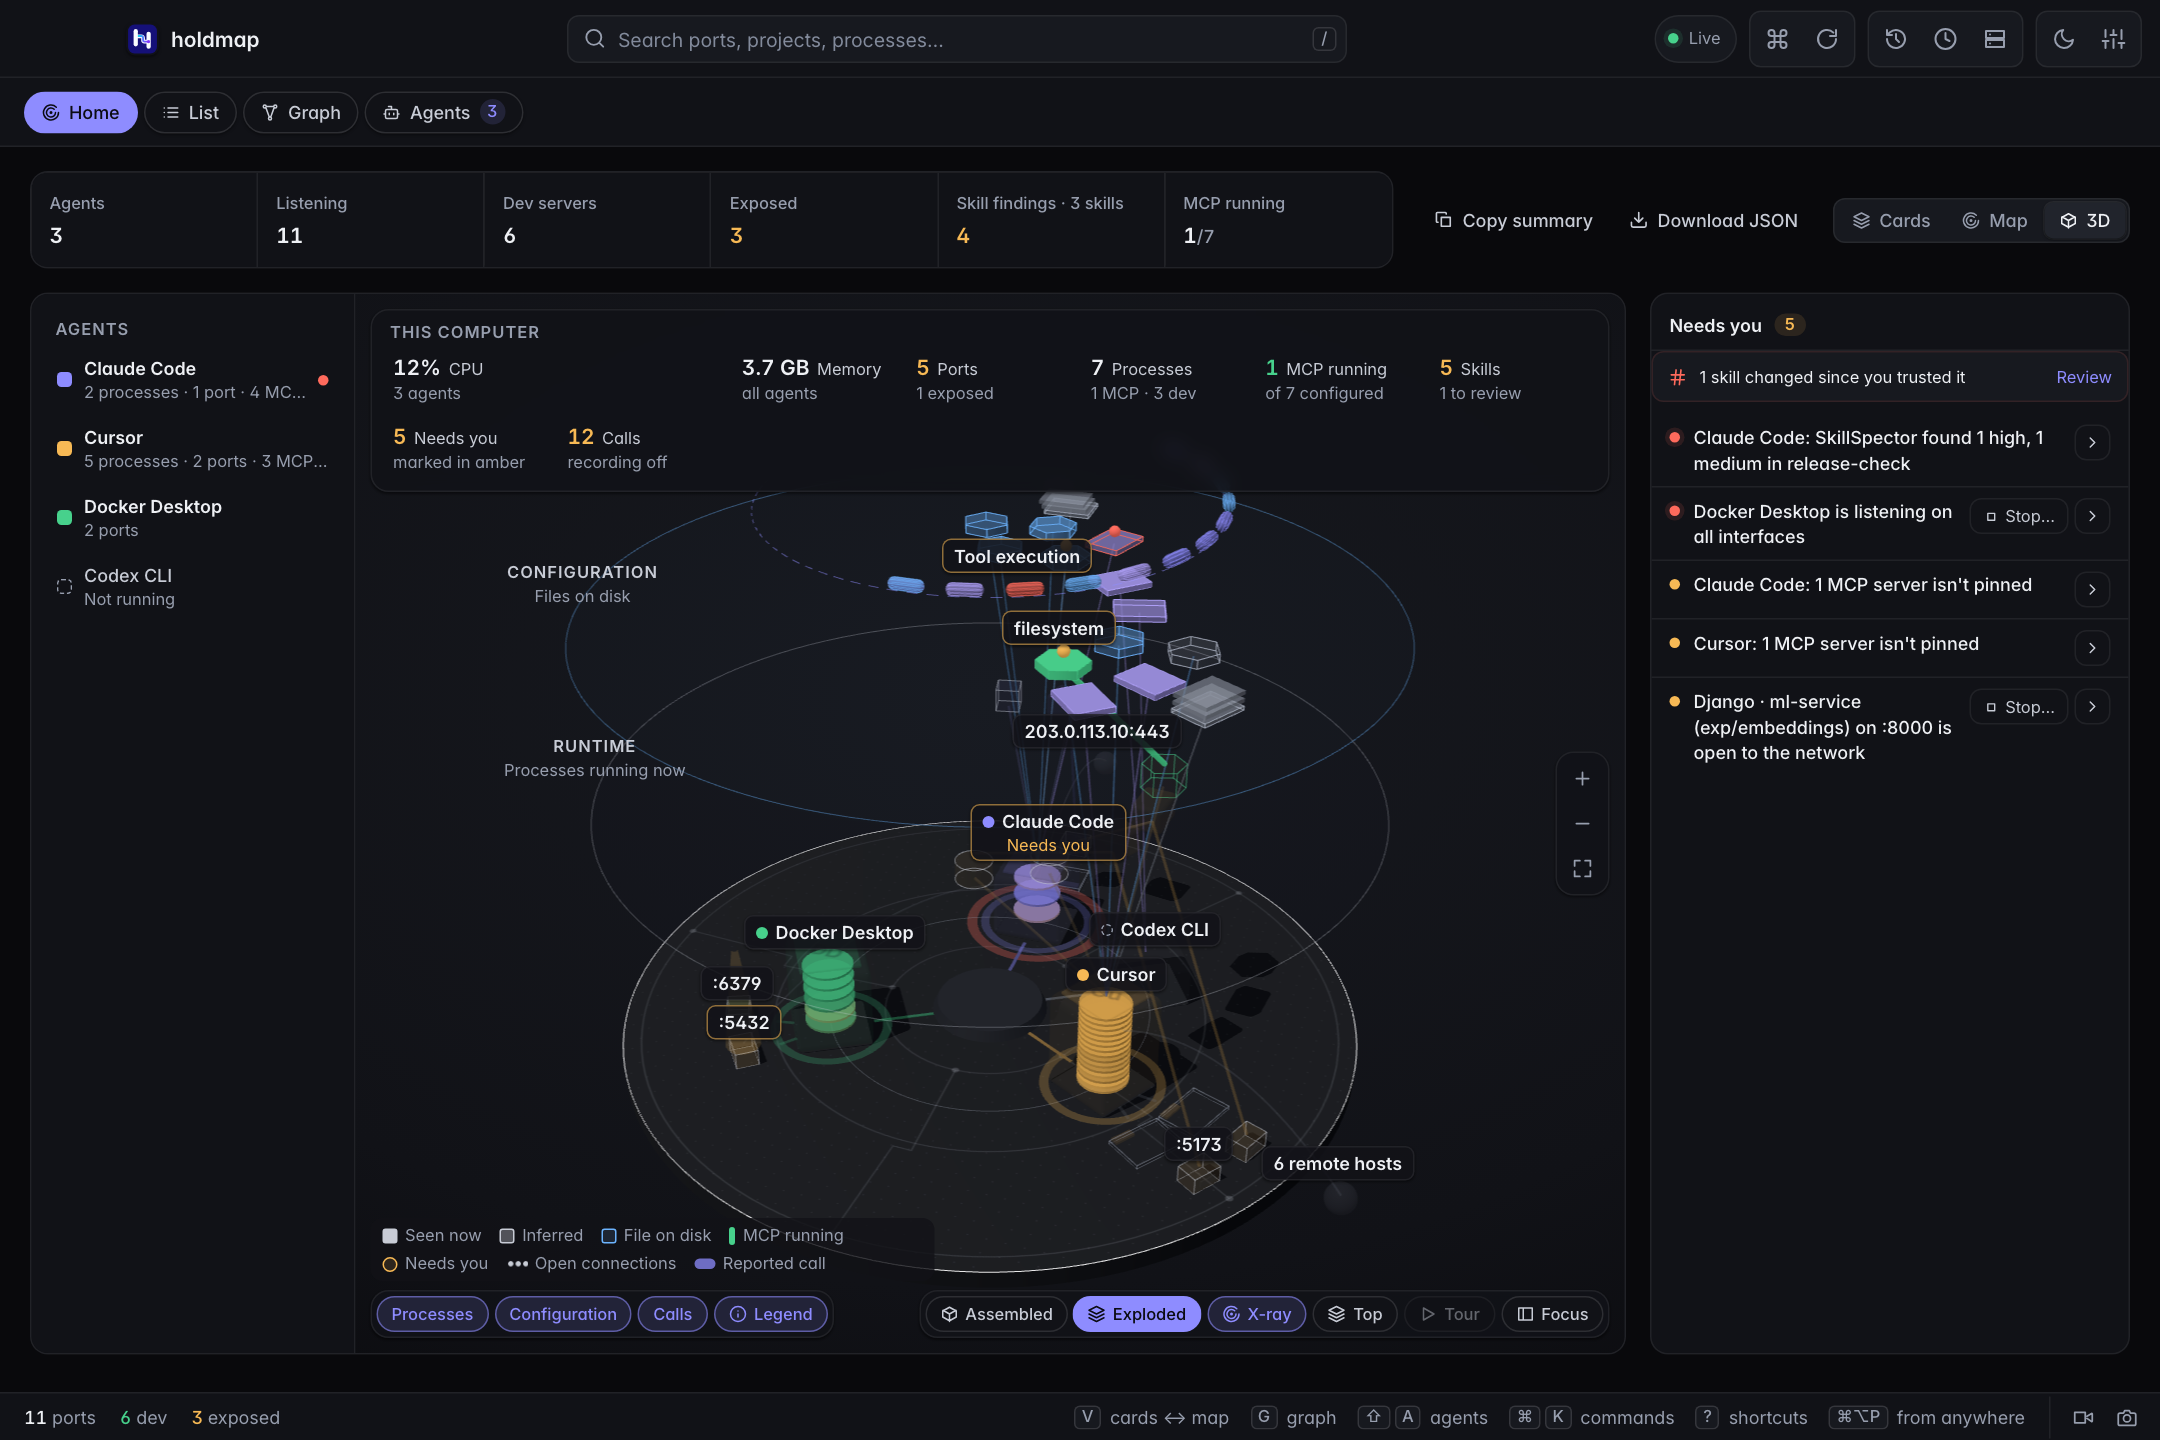
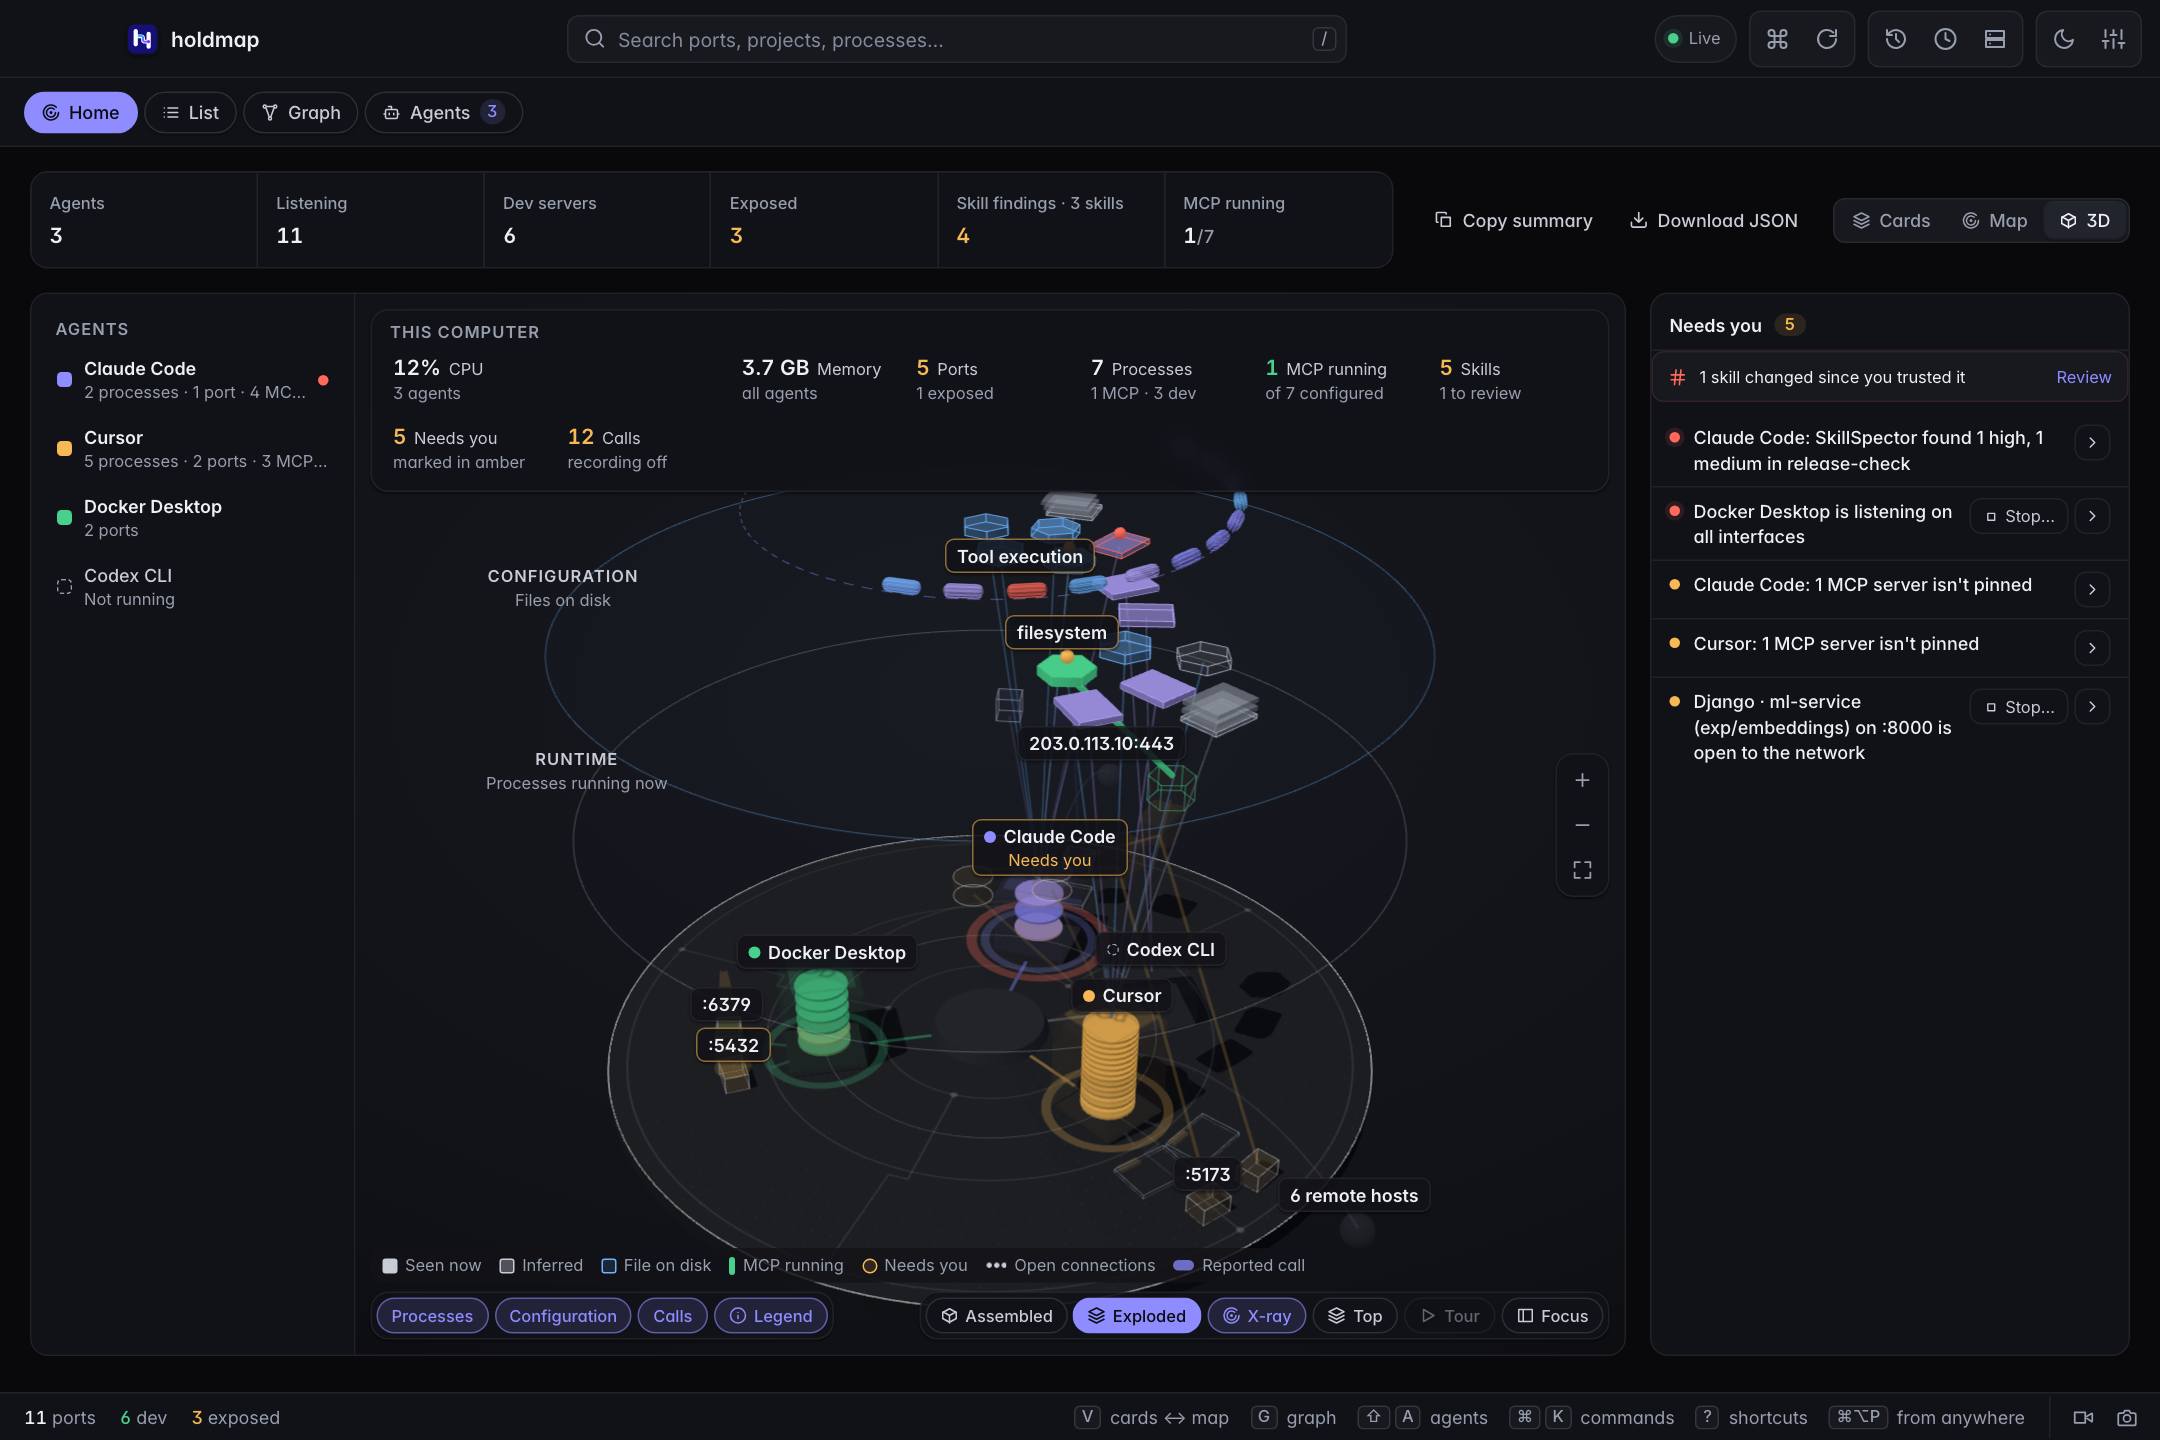
fix(desktop): keep the 3D controls and readings inside narrower stages
CI on Linux caught the view toolbar running past the canvas at 1024px once it
gained Focus. On a stage narrower than 1000px the view controls now show their
icons only (names stay as visually hidden text and tooltips), the legend and
both control bars share one bottom overlay that wraps, and the readings keep
to one row that scrolls sideways.

The 3D panel now takes exactly the height Home has left under its header
instead of a viewport estimate, so the page never gains a scrollbar that
resizes the canvas, and the stage reads its size on the next frame, as the
rest of the app does inside resize observers. Adds a 1280px layout case.

diff --git a/apps/desktop/src/components/home/machine3d/Machine3DView.svelte b/apps/desktop/src/components/home/machine3d/Machine3DView.svelte
@@ -273,7 +273,9 @@
       <div class="hud top" data-inset>
         <Readings readings={figures} {scope} cpu={cpuHistory.get(readingFocus ?? "") ?? []} active={gauge} onpick={pickGauge} />
       </div>
-      <div class="hud bottom-left" data-inset>
+      <!-- One overlay along the bottom: the legend (or tour caption) across the width, then the
+           layer bar and the view controls, which wrap onto two rows when space runs out. -->
+      <div class="hud bottom" data-inset>
         {#if caption}
           <p class="caption" aria-live="polite"><Icon name="play" size={11} />{caption}</p>
         {:else if legend}
@@ -283,6 +285,7 @@
             {#if scene.calls}<li><i class="call"></i>Reported call</li>{/if}
           </ul>
         {/if}
+        <div class="row">
         <div class="bar" role="group" aria-label="Layers">
           <ActionPill label="Processes" toggle pressed={!hidden.has("runtime")} size="compact" title="Show or hide the runtime plate" onclick={() => toggleLayer("runtime")} />
           <ActionPill label="Configuration" toggle pressed={!hidden.has("config")} size="compact" title="Show or hide configuration files on disk" onclick={() => toggleLayer("config")} />
@@ -290,13 +293,14 @@
           <ActionPill icon="info" label="Legend" toggle pressed={legend} size="compact" expanded={legend} onclick={() => (legend = !legend)} />
           {#if !inventory && oninventory && !scene.inspected}<button type="button" class="link" onclick={oninventory}><Icon name="plug" size={12} />Read MCP config</button>{/if}
         </div>
-      </div>
-      <div class="hud bottom-right bar" role="toolbar" aria-label="3D view" data-inset>
+        <div class="bar tools" role="toolbar" aria-label="3D view">
         <ActionDock value={explode ? "exploded" : "assembled"} options={MODES} label="Assembly" hinge={false} animate={false} size="compact" onchange={(v) => { stopTour(); explode = v === "exploded"; }} />
         <ActionPill icon="radar" label="X-ray" toggle pressed={xray} size="compact" kbd="X" title="See through solid parts; configuration and running beams stand out" onclick={() => { stopTour(); xray = !xray; }} />
         <ActionPill icon="layers" label="Top" toggle pressed={top} size="compact" title="Look straight down: the same picture as the Map" onclick={() => { stopTour(); top = !top; }} />
         <ActionPill icon="play" label="Tour" toggle pressed={tour} size="compact" kbd="T" disabled={reduced || !hasParts} title={reduced ? "The tour is off while reduced motion is on" : "Walk through the machine; any input hands you control"} onclick={() => (tour = !tour)} />
         {#if onexpand}<ActionPill icon="sidebar" label="Focus" toggle pressed={expanded} size="compact" title={expanded ? "Show the summary and Needs you again" : "Hide the summary and Needs you so the machine fills Home"} onclick={() => onexpand?.(!expanded)} />{/if}
+        </div>
+        </div>
       </div>
       <div class="hud zoom" role="toolbar" aria-label="Zoom" aria-orientation="vertical">
         <IconButton icon="plus" label="Zoom in" kbd="+" size="sm" onclick={() => stage3d?.zoomBy(1 / 1.25)} />
@@ -326,14 +330,14 @@
   .hud { position: absolute; pointer-events: none; z-index: 1; }
   .hud > :global(*) { pointer-events: auto; }
   .top { top: 10px; left: 10px; right: 10px; }
-  .bottom-left { left: 10px; bottom: 10px; display: grid; gap: 6px; justify-items: start; max-width: calc(100% - 470px); }
-  .bottom-right { right: 10px; bottom: 10px; }
+  .bottom { left: 10px; right: 10px; bottom: 10px; display: grid; gap: 6px; justify-items: start; }
+  .row { justify-self: stretch; display: flex; flex-wrap: wrap; align-items: flex-end; gap: 6px; }
+  .row .tools { margin-left: auto; flex-wrap: nowrap; }
   .side { right: 52px; display: flex; align-items: flex-end; }
   /* Zoom sits on the right edge, clear of the readings above and the controls below. */
   .zoom { right: 10px; top: 50%; transform: translateY(-50%); display: grid; gap: 2px; padding: 3px; border: 1px solid var(--border); border-radius: var(--r-lg);
     background: color-mix(in srgb, var(--surface) 90%, transparent); box-shadow: var(--shadow-sm); }
   .bar { display: flex; align-items: center; gap: 4px; flex-wrap: wrap; padding: 3px; border: 1px solid var(--border); border-radius: var(--r-lg); background: color-mix(in srgb, var(--surface) 90%, transparent); box-shadow: var(--shadow-sm); }
-  .bottom-right.bar { flex-wrap: nowrap; }
   .legend { list-style: none; margin: 0; padding: 4px 8px; display: flex; flex-wrap: wrap; gap: 4px 12px; border-radius: var(--r-md); background: color-mix(in srgb, var(--surface) 80%, transparent); color: var(--muted); font-size: var(--fs-caption); line-height: var(--lh-caption); }
   .legend li { display: inline-flex; align-items: center; gap: 5px; }
   .legend i { width: 10px; height: 10px; border-radius: 2px; border: 1.5px solid var(--text-2); }
@@ -350,10 +354,10 @@
   .link { display: inline-flex; align-items: center; gap: 5px; height: 24px; padding: 0 8px; border: 0; border-radius: var(--r-md); background: transparent; color: var(--accent); font: inherit; font-size: var(--fs-caption); font-weight: var(--fw-medium); cursor: pointer; }
   .link:hover { background: var(--accent-softer); }
   .link:focus-visible { outline: 2px solid var(--ring); outline-offset: 1px; }
-  /* Narrow: the view controls sit above the layer toggles, and the parts list narrows. */
-  @container (max-width: 900px) {
+  /* Narrower: the view controls show their icons only. Their names stay as visually hidden text,
+     so each button keeps its accessible name, and its tooltip still shows it. */
+  @container (max-width: 1000px) {
     .m3d { grid-template-columns: 180px minmax(0, 1fr); }
-    .bottom-left { max-width: calc(100% - 20px); bottom: 52px; }
-    .bottom-right { left: 10px; right: auto; }
+    .tools :global(.action-pill > span) { position: absolute; width: 1px; height: 1px; padding: 0; margin: -1px; overflow: hidden; clip: rect(0 0 0 0); white-space: nowrap; border: 0; }
   }
 </style>

diff --git a/apps/desktop/src/components/home/HomeView.svelte b/apps/desktop/src/components/home/HomeView.svelte
@@ -155,7 +155,7 @@
 </script>
 
 <!-- svelte-ignore a11y_no_noninteractive_element_interactions -->
-<div class="home" id="home-overview" role="region" aria-label="Overview" {onkeydown}>
+<div class="home" class:three={layout === "3d" && !idle} id="home-overview" role="region" aria-label="Overview" {onkeydown}>
   <header class="top">
     {#if !focused}<HomeSummary {stats} />{/if}
     <div class="tools">
@@ -258,9 +258,11 @@
   .inv:focus-visible { outline: 2px solid var(--ring); outline-offset: 1px; }
   .body { display: grid; grid-template-columns: minmax(0, 1fr) 320px; gap: var(--sp-4); align-items: start; }
   .body.map { align-items: stretch; height: clamp(340px, 44vh, 560px); }
-  /* The 3D machine fills the window under the summary, down to the status bar. */
-  .body.three { height: clamp(440px, calc(100vh - 252px), 900px); }
-  .body.three.focused { grid-template-columns: minmax(0, 1fr); height: clamp(460px, calc(100vh - 214px), 1400px); }
+  /* The 3D machine takes exactly the height Home has left under its header, so the page never
+     gains a scrollbar that would resize the canvas while it lays out. */
+  .home.three { grid-template-rows: auto minmax(440px, 1fr); align-content: stretch; }
+  .body.map.three { height: auto; min-height: 0; }
+  .body.three.focused { grid-template-columns: minmax(0, 1fr); }
   .main { min-width: 0; min-height: 0; height: 100%; animation: view-in 180ms ease both; }
   @keyframes view-in { from { opacity: 0; transform: translateY(3px); } }
   @media (prefers-reduced-motion: reduce) { .main { animation: none; } }
@@ -280,10 +282,11 @@
   .clear { margin: 0; padding: var(--sp-3); display: flex; align-items: center; gap: var(--sp-2); color: var(--muted); font-size: var(--fs-body-sm); line-height: var(--lh-body-sm); }
   .clear :global(svg) { color: var(--ok); }
   .lanes-empty { border: 1px solid var(--border); border-radius: var(--r-lg); background: var(--surface); }
-  @media (max-width: 1100px) { .body { grid-template-columns: minmax(0, 1fr) 280px; } .body.map { height: clamp(300px, 38vh, 480px); } .body.three { height: clamp(420px, calc(100vh - 290px), 760px); } }
+  @media (max-width: 1100px) { .body { grid-template-columns: minmax(0, 1fr) 280px; } .body.map { height: clamp(300px, 38vh, 480px); } }
   @media (max-width: 860px) {
     .body, .body.map { grid-template-columns: minmax(0, 1fr); height: auto; }
     .body.map .stage { height: 420px; }
+    .home.three { grid-template-rows: none; align-content: start; }
     .body.three .stage { height: 560px; }
     .body:not(.map) .panel { position: static; }
     .panel { order: -1; }

diff --git a/apps/desktop/src/components/home/machine3d/Stage3D.svelte b/apps/desktop/src/components/home/machine3d/Stage3D.svelte
@@ -69,6 +69,18 @@
     };
   });
 
+  // Size is read on the next frame, as elsewhere in the app: resizing inside the observer
+  // callback would trigger a "ResizeObserver loop" notice.
+  $effect(() => {
+    const el = host;
+    if (!el || typeof ResizeObserver === "undefined") return;
+    let frame = 0;
+    const read = () => { width = el.clientWidth; height = el.clientHeight; };
+    read();
+    const ro = new ResizeObserver(() => { cancelAnimationFrame(frame); frame = requestAnimationFrame(read); });
+    ro.observe(el);
+    return () => { ro.disconnect(); cancelAnimationFrame(frame); };
+  });
   $effect(() => { stage?.resize(width, height); });
   $effect(() => { stage?.setInsets(insets.top, insets.bottom); });
   // Poses are fitted to the free area between the overlays, then pulled back to the full canvas.
@@ -295,7 +307,7 @@
 </script>
 
 <!-- svelte-ignore a11y_no_noninteractive_tabindex, a11y_no_noninteractive_element_interactions -->
-<div class="stage3d" bind:this={host} bind:clientWidth={width} bind:clientHeight={height} role="group" tabindex="0"
+<div class="stage3d" bind:this={host} role="group" tabindex="0"
   aria-label="3D machine. Drag to turn, right-drag or Shift-drag to pan, scroll to zoom. Arrow keys turn, + and − zoom, 0 resets. The parts list beside it has every part as a button."
   onkeydown={onkey}>
   <canvas bind:this={canvas} class:grab={!!view.hovered} onpointerdown={ondown} onpointermove={onmove} onpointerup={onup} onpointercancel={onup}

diff --git a/apps/desktop/src/components/home/machine3d/Readings.svelte b/apps/desktop/src/components/home/machine3d/Readings.svelte
@@ -61,4 +61,13 @@
   .cpu .tile { padding-right: 132px; }
   .spark { position: absolute; right: 6px; top: 50%; width: 120px; height: 26px; transform: translateY(-50%); }
   .spark polyline { fill: none; stroke: var(--accent); stroke-width: 1.5; stroke-linejoin: round; vector-effect: non-scaling-stroke; }
+  /* On a narrower 3D stage the readings stay on one row and scroll sideways, so the machine keeps its room. */
+  @container (max-width: 1000px) {
+    ul { grid-template-columns: none; grid-auto-flow: column; grid-auto-columns: max-content; overflow-x: auto; scrollbar-width: thin; padding-bottom: 2px; }
+    .r.cpu { grid-column: auto; }
+    .tile { width: max-content; }
+    .l, small { overflow: visible; }
+    .cpu .tile { padding-right: 70px; }
+    .spark { width: 60px; }
+  }
 </style>

diff --git a/apps/desktop/e2e/home-3d.test.ts b/apps/desktop/e2e/home-3d.test.ts
@@ -150,7 +150,7 @@ test("without WebGL, 3D shows the map and says why", async ({ app }) => {
   await expect(overview.getByRole("button", { name: "Use 3D anyway" })).toHaveCount(0);
 });
 
-for (const width of [390, 1024, 1440]) {
+for (const width of [390, 1024, 1280, 1440]) {
   test(`3D at ${width}px: no page overflow, and a list of agents on a phone-sized window`, async ({ app }) => {
     await app.setViewportSize({ width, height: 900 });
     const mode = await open3d(app);
